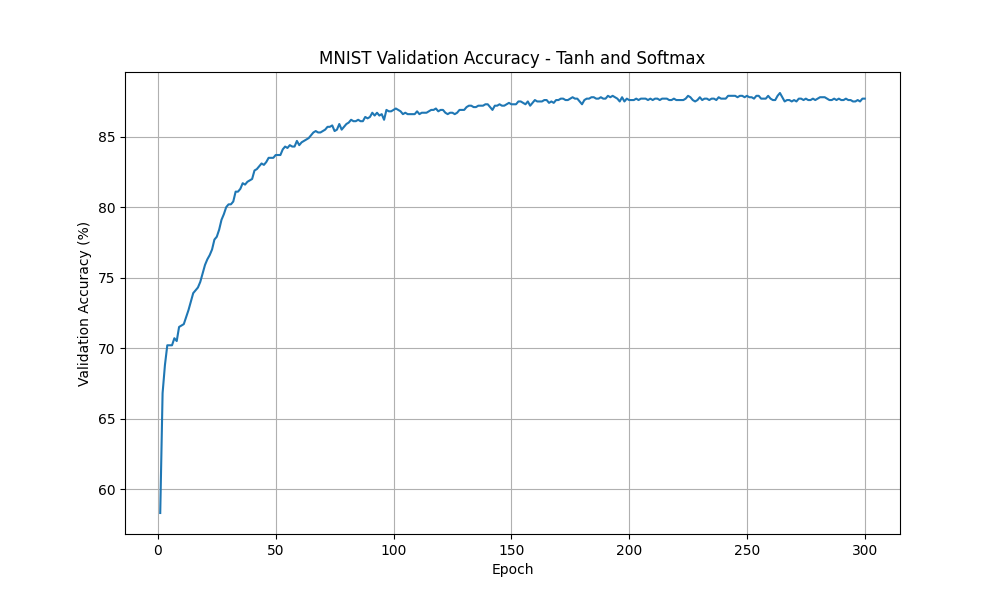
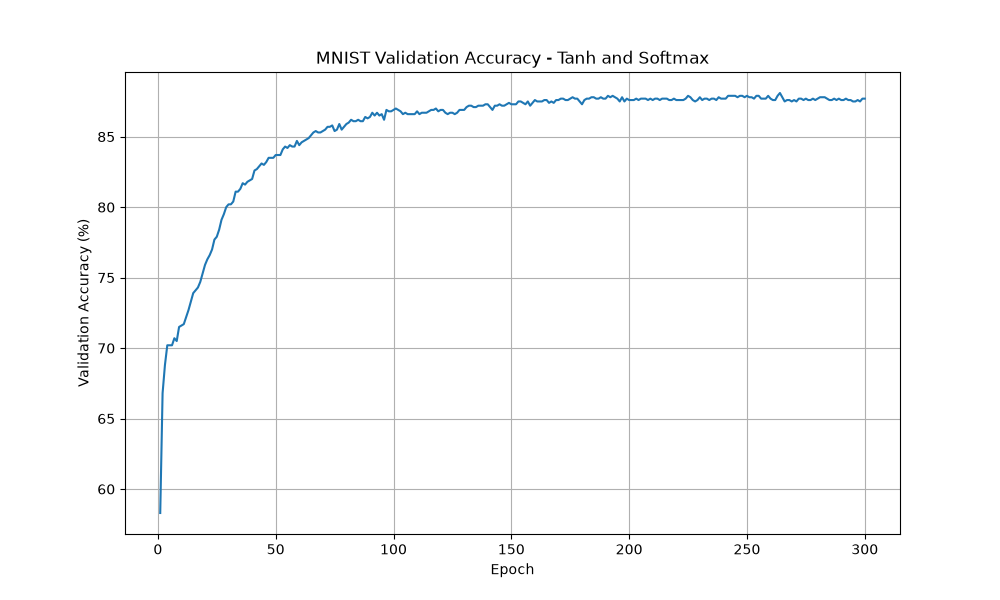
part 5 and 6

diff --git a/week9/test_forms.py b/week9/test_forms.py
@@ -1,0 +1,184 @@
+import numpy as np
+from forms import (
+    tanh, tanh_deriv,
+    relu, relu_deriv,
+    sigmoid, sigmoid_deriv,
+    softmax
+)
+from part3_upgrade import train_step
+from data import load_mnist, one_hot
+
+def test_softmax():
+    # test with random vals between -25 and 25
+    rand_input = (np.random.random((8, 10)) - .5) * 50
+    s_maxxed = softmax(rand_input)
+    for row in s_maxxed:
+        assert abs(np.sum(row) - 1) < 1e-9, "did not sum to 1"
+    big_s_max = softmax(np.array([[1000.0, 1001.0]]))
+    for row in big_s_max:
+        for num in row:
+            assert np.isfinite(num), "Not finite with big numbers"
+    assert np.isclose(big_s_max[0][0], 0.269, atol=.0001), "Not close to the correct vals"
+    assert np.isclose(big_s_max[0][1], 0.731, atol =.0001), "Not close to the correct vals"
+
+def test_ranges():
+    x = np.linspace(-15, 15, 1001)
+    sig = sigmoid(x)
+    tanh_x = tanh(x)
+    relu_x = relu(x)
+    pos_x = [i for i in x if i>0]
+    pos_relu_x = [i for i in relu_x if i>0]
+    assert np.min(sig) >= 0, "sigmoid min too low"
+    assert np.max(sig) <= 1, "sigmoid max too big"
+    assert np.min(tanh_x) >= -1, "tanh_x min too low"
+    assert np.max(tanh_x) <= 1, "tanh_x max too big"
+    assert np.min(relu_x) >= 0, "relu min too low"
+    assert pos_x == pos_relu_x, "relu is transforming positive nums"
+
+def test_relu():
+    x = np.linspace(-15, 15, 1001)
+    relu_x = relu(x)
+    for i in range(len(relu_x)):
+        if relu_x[i] == 0:
+            assert x[i] <= 0, "relu got a negative sign incorrect"
+    assert np.array_equal(relu_deriv(relu(x)), x > 0), "relu deriv has wrong sign"
+
+def test_derivs():
+    x = np.random.random(15) * 10
+    h = 10**-5
+    tanh_analytic_deriv = (tanh(x + h) - tanh(x-h)) / (2*h)
+    sig_analytic_deriv = (sigmoid(x + h) - sigmoid(x-h)) / (2*h)
+    tanh_x = tanh(x)
+    sig_x = sigmoid(x)
+    for i in range(len(x)):
+        assert abs(tanh_deriv(tanh_x)[i] - tanh_analytic_deriv[i]) <= 1e-4, "tanh deriv does not agree with analytic deriv"
+        assert abs(sigmoid_deriv(sig_x)[i] - sig_analytic_deriv[i]) <= 1e-4, "sigmoid deriv does not agree with analytic deriv"
+
+
+def test_backprop():
+    rng = np.random.RandomState(0)
+    layer_0 = rng.rand(4, 6) # 4 images, 6 "pixels"
+    W_0_1, W_1_2 = rng.randn(6, 5), rng.randn(5, 3)
+    Y = np.eye(3)[[0, 2, 1, 2]] # one-hot, 3 classes
+    mask = rng.randint(2, size=(4, 5))
+    z1 = layer_0 @ W_0_1
+    layer_2 = softmax((np.tanh(z1) * mask * 2) @ W_1_2)
+    delta_2 = (layer_2 - Y) / 4 # batch average: 4 images
+    expected = (delta_2 @ W_1_2.T) * (1 - np.tanh(z1)**2) * mask * 2
+    got = train_step(layer_0, Y, W_0_1.copy(), W_1_2.copy(), mask, alpha=0.02)
+    # either backward-mask convention: mask * 2 (exact) or mask (Trask)
+    assert np.allclose(got, expected) or np.allclose(got, expected / 2)
+
+def test_lin_collapse():
+    X = np.random.randn(5, 4)
+    W1 = np.random.randn(4, 3)
+    W2 = np.random.randn(3, 2)
+
+    sequencial_l2 = (X @ W1) @ W2
+    squashed_l2 = X @ (W1 @ W2)
+    relu_l2 = relu(X @ W1) @ W2
+    assert np.allclose(sequencial_l2, squashed_l2), "math error"
+    assert not np.allclose(relu_l2, squashed_l2), "relu not activating properly"
+
+def test_right_form():
+        # load dataset
+        (X_train, y_train), (X_test, y_test) = load_mnist()
+
+        # split training and validation data
+        X_val = X_train[1000:2000]
+        Y_val = one_hot(y_train[1000:2000])
+
+        X_train = X_train[:1000]
+        Y_train = one_hot(y_train[:1000])
+
+        alpha = 0.02
+        epochs = 15
+        hidden_size = 100
+        batch_size = 100
+
+        # forms to test
+        forms = [
+            ("tanh", tanh, tanh_deriv),
+            ("sigmoid", sigmoid, sigmoid_deriv)
+        ]
+
+        results = {}
+
+        # train network for each activation form
+        for name, hidden_f, hidden_d in forms:
+            print(f"Training network with {name}...")
+
+            np.random.seed(1)
+
+            W_0_1 = 0.02 * np.random.random((784, hidden_size)) - 0.01
+            W_1_2 = 0.2 * np.random.random((hidden_size, 10)) - 0.1
+
+            for epoch in range(epochs):
+
+                # process the training images in batches
+                for s in range(0, len(X_train), batch_size):
+                    layer_0 = X_train[s:s + batch_size]
+                    Y_batch = Y_train[s:s + batch_size]
+
+                    # new dropout mask
+                    mask = np.random.randint(2, size=(len(layer_0), hidden_size))
+
+                    # train on current batch
+                    train_step(layer_0, Y_batch, W_0_1, W_1_2, mask, alpha, hidden_f, hidden_d)
+
+            # validation accuracy without dropout
+            val_hidden = hidden_f(X_val @ W_0_1)
+            val_scores = val_hidden @ W_1_2
+
+            # find predicted and actual digits
+            val_predictions = np.argmax(val_scores, axis=1)
+            val_actual = np.argmax(Y_val, axis=1)
+
+            # get accuracy
+            val_accuracy = np.mean(val_predictions == val_actual) * 100
+            results[name] = val_accuracy
+
+            print(f"Final Validation Accuracy ({name}): {val_accuracy:.2f}%\n")
+        tanh_acc = results["tanh"]
+        sig_acc = results["sigmoid"]
+        assert tanh_acc > sig_acc, "sig acc is greater than tanh when it should not be"
+
+
+
+
+
+
+
+if __name__ == '__main__':
+    tests = [name for name in dir() if name.startswith('test_')]
+    passed = []
+    failed = []
+    for test_name in sorted(tests):
+        test_func = globals()[test_name]
+        try:
+            test_func()
+            passed.append(test_name)
+            print(f' PASS: {test_name}')
+        except AssertionError as e:
+            failed.append(test_name)
+            print(f' FAIL: {test_name} -- {e}')
+    for name in passed:
+        print(f'PASS: {name}')
+    for name in failed:
+        print(f'FAIL: {name}')
+  
+
+"""
+In part 4, with the same overall network structures and data, with only a change in hidden layer form, 
+we got 3 distinct values for the three different forms. This is because the different forms each have 
+unique capabilities in their own rights. Tanh compresses outputs between -1 and 1 allowing for the model 
+to still see negative correlations between values and greater slopes around 0, sigmoid compresses outputs 
+between 0 and 1, and relu just 0s any negative output allowing a slope always = 1 or 0. Tanh is strong 
+and balanced with the capability of negative values so the model can see negative numbers while relu is 
+aggressive and allows the model to train quickly. Sigmoid is weaker but still can provide the model a 
+different perspective of the datapoint, albeit a slower training time. The Verach, just like a naïve 
+neural network creator, have never given their model the chance to view the situation with a different 
+perspective that could provide very valuable insights for the model. Without considering other forms, 
+you are potentially denying yourself the best view of the data where your model picks 
+out the best combination of factors for the situation.
+"""

diff --git a/week9/forms.py b/week9/forms.py
@@ -31,27 +31,28 @@ def softmax(z):
 
 import matplotlib.pyplot as plt
 
-# Create input values from -6 to 6
-x = np.linspace(-6, 6, 200)
+if __name__ == '__main__':
+  # Create input values from -6 to 6
+  x = np.linspace(-6, 6, 200)
 
-# calculate each activation function
-sigmoid_y = sigmoid(x)
-tanh_y = tanh(x)
-relu_y = relu(x)
+  # calculate each activation function
+  sigmoid_y = sigmoid(x)
+  tanh_y = tanh(x)
+  relu_y = relu(x)
 
-# This will draw all three functions on a single graph
-plt.plot(x, sigmoid_y, label="Sigmoid (0, 1)")
-plt.plot(x, tanh_y, label="Tanh (-1, 1)")
-plt.plot(x, relu_y, label="ReLU [0, infinity)")
+  # This will draw all three functions on a single graph
+  plt.plot(x, sigmoid_y, label="Sigmoid (0, 1)")
+  plt.plot(x, tanh_y, label="Tanh (-1, 1)")
+  plt.plot(x, relu_y, label="ReLU [0, infinity)")
 
-# Addings labels
-plt.xlabel("Input (x)")
-plt.ylabel("Output")
-plt.title("Activation Functions")
-plt.legend()
-plt.grid(True)
+  # Addings labels
+  plt.xlabel("Input (x)")
+  plt.ylabel("Output")
+  plt.title("Activation Functions")
+  plt.legend()
+  plt.grid(True)
 
-# code to save the graph
-plt.savefig("forms_plot.png")
-plt.show()
+  # code to save the graph
+  plt.savefig("forms_plot.png")
+  plt.show()
 
